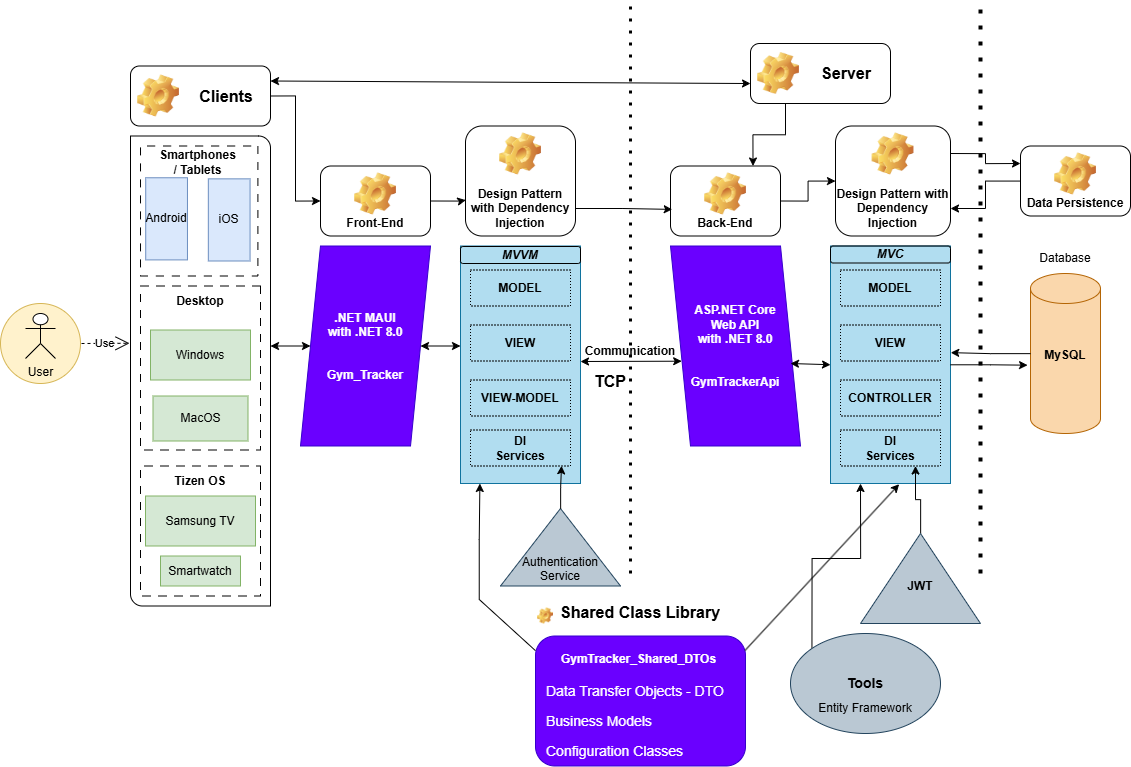
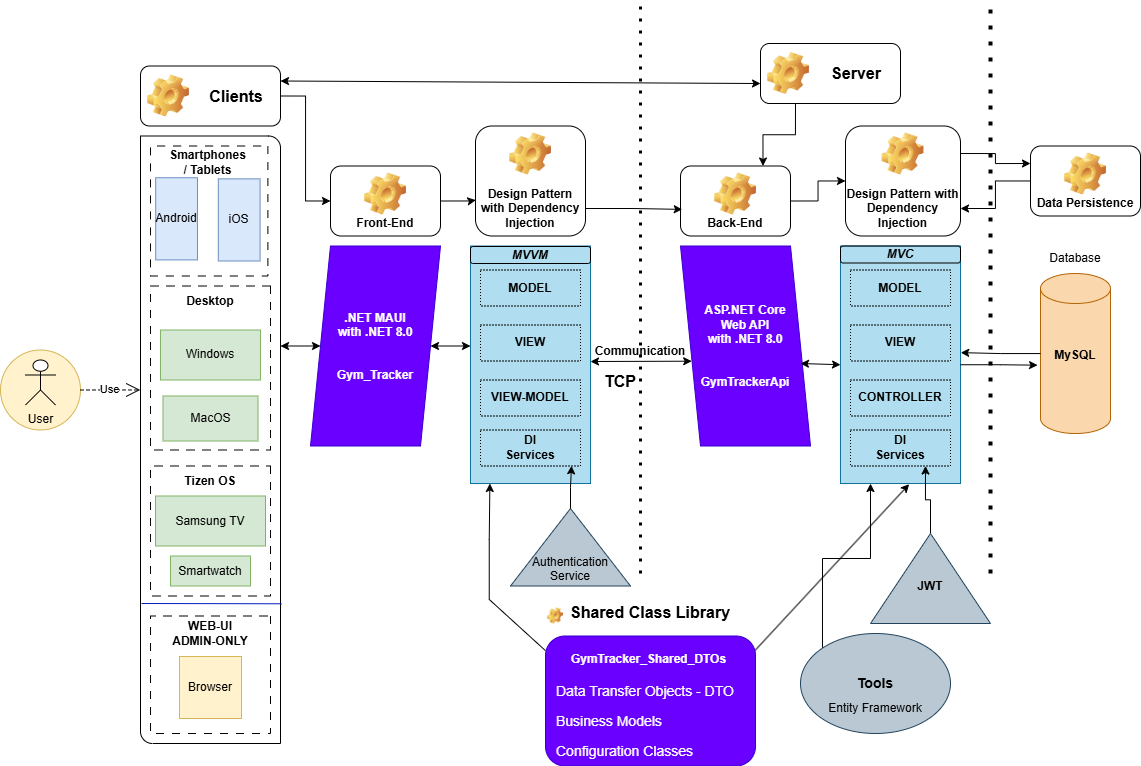
Cleaned up the using statements and done some code formatting, so it looks better.

diff --git a/GymTrackerApi/Pages/Admin/EditExercise.cshtml.cs b/GymTrackerApi/Pages/Admin/EditExercise.cshtml.cs
@@ -52,7 +52,7 @@ namespace GymTrackerApi.Pages.Admin
             }
             else
             {
-                // Optionally, you can show an error message.
+                // Optional - show an error message
                 return RedirectToPage("ManageExercises");
             }
         }
@@ -88,7 +88,7 @@ namespace GymTrackerApi.Pages.Admin
             var response = await client.SendAsync(request);
             if (response.IsSuccessStatusCode)
             {
-                // Instead of redirecting immediately, set a flag and a success message.
+                // Instead of redirecting immediately, setting a flag and a success message.
                 UpdateSucceeded = true;
                 SuccessMessage = "Exercise updated successfully!";
                 return Page();

diff --git a/GymTracker-Shared-DTOs/TrainingExercise.cs b/GymTracker-Shared-DTOs/TrainingExercise.cs
@@ -5,7 +5,6 @@
         public int Id { get; set; }
         public int TrainingId { get; set; }
         public int ExerciseId { get; set; }
-
         public int Sets { get; set; }
         public int Repetitions { get; set; }
         public float? Weight { get; set; }

diff --git a/GymTrackerApi/GlobalUsing.cs b/GymTrackerApi/GlobalUsing.cs
@@ -31,3 +31,4 @@ global using System.Collections.Generic;
 // For Admin Razor Pages
 global using Microsoft.AspNetCore.Mvc.RazorPages;
 global using System.Text.Json;
+global using System.Net.Http.Headers;

diff --git a/GymTrackerApi/DataContexts/ApplicationDbContext.cs b/GymTrackerApi/DataContexts/ApplicationDbContext.cs
@@ -1,6 +1,4 @@
-using GymTrackerApi.Models;
-
-namespace GymTrackerApi.DataContexts
+namespace GymTrackerApi.DataContexts
 {
     public class ApplicationDbContext : DbContext
     {

diff --git a/GymTrackerApi/Controllers/AuthController.cs b/GymTrackerApi/Controllers/AuthController.cs
@@ -1,6 +1,4 @@
-using GymTrackerApi.Services;
-
-namespace GymTrackerApi.Controllers
+namespace GymTrackerApi.Controllers
 {
     [ApiController]
     [Route("api/[controller]")]

diff --git a/GymTrackerApi/Controllers/TrainingController.cs b/GymTrackerApi/Controllers/TrainingController.cs
@@ -1,6 +1,4 @@
-using GymTracker_Shared_DTOs;
-
-namespace GymTrackerApi.Controllers
+namespace GymTrackerApi.Controllers
 {
     [ApiController]
     [Route("api/[controller]")]

diff --git a/GymTrackerApi/Pages/Admin/CreateExercise.cshtml.cs b/GymTrackerApi/Pages/Admin/CreateExercise.cshtml.cs
@@ -1,6 +1,3 @@
-using System.Net.Http.Headers;
-using System.Text.Json;
-
 namespace GymTrackerApi.Pages.Admin
 {
     public class CreateExerciseModel : PageModel

diff --git a/GymTrackerApi/Pages/Admin/Index.cshtml.cs b/GymTrackerApi/Pages/Admin/Index.cshtml.cs
@@ -1,5 +1,3 @@
-using System.Text.Json;
-
 namespace GymTrackerApi.Pages.Admin
 {
     public class IndexModel : PageModel

diff --git a/README.md b/README.md
@@ -39,6 +39,8 @@ The solution is composed of three projects:
    - ASP.NET Web API that handles authentication, training creation, and data retrieval  
    - Uses Entity Framework Core for data access
    - Uses a nuget Package, called Pomelo, that allows the business model creation with simple command line snippets
+   - Later has been extended to a Razor Pages project, because of the fast implementation and scalability. This serves a Web-UI exclusively for Administrators:
+      - accessible on https://ip-address:7013/Admin
 
 3. **Shared Library (GymTracker_Shared_DTOs)**  
    - Contains models, DTOs, and configuration classes shared between the frontend and the backend to apply the SOLID Principles
